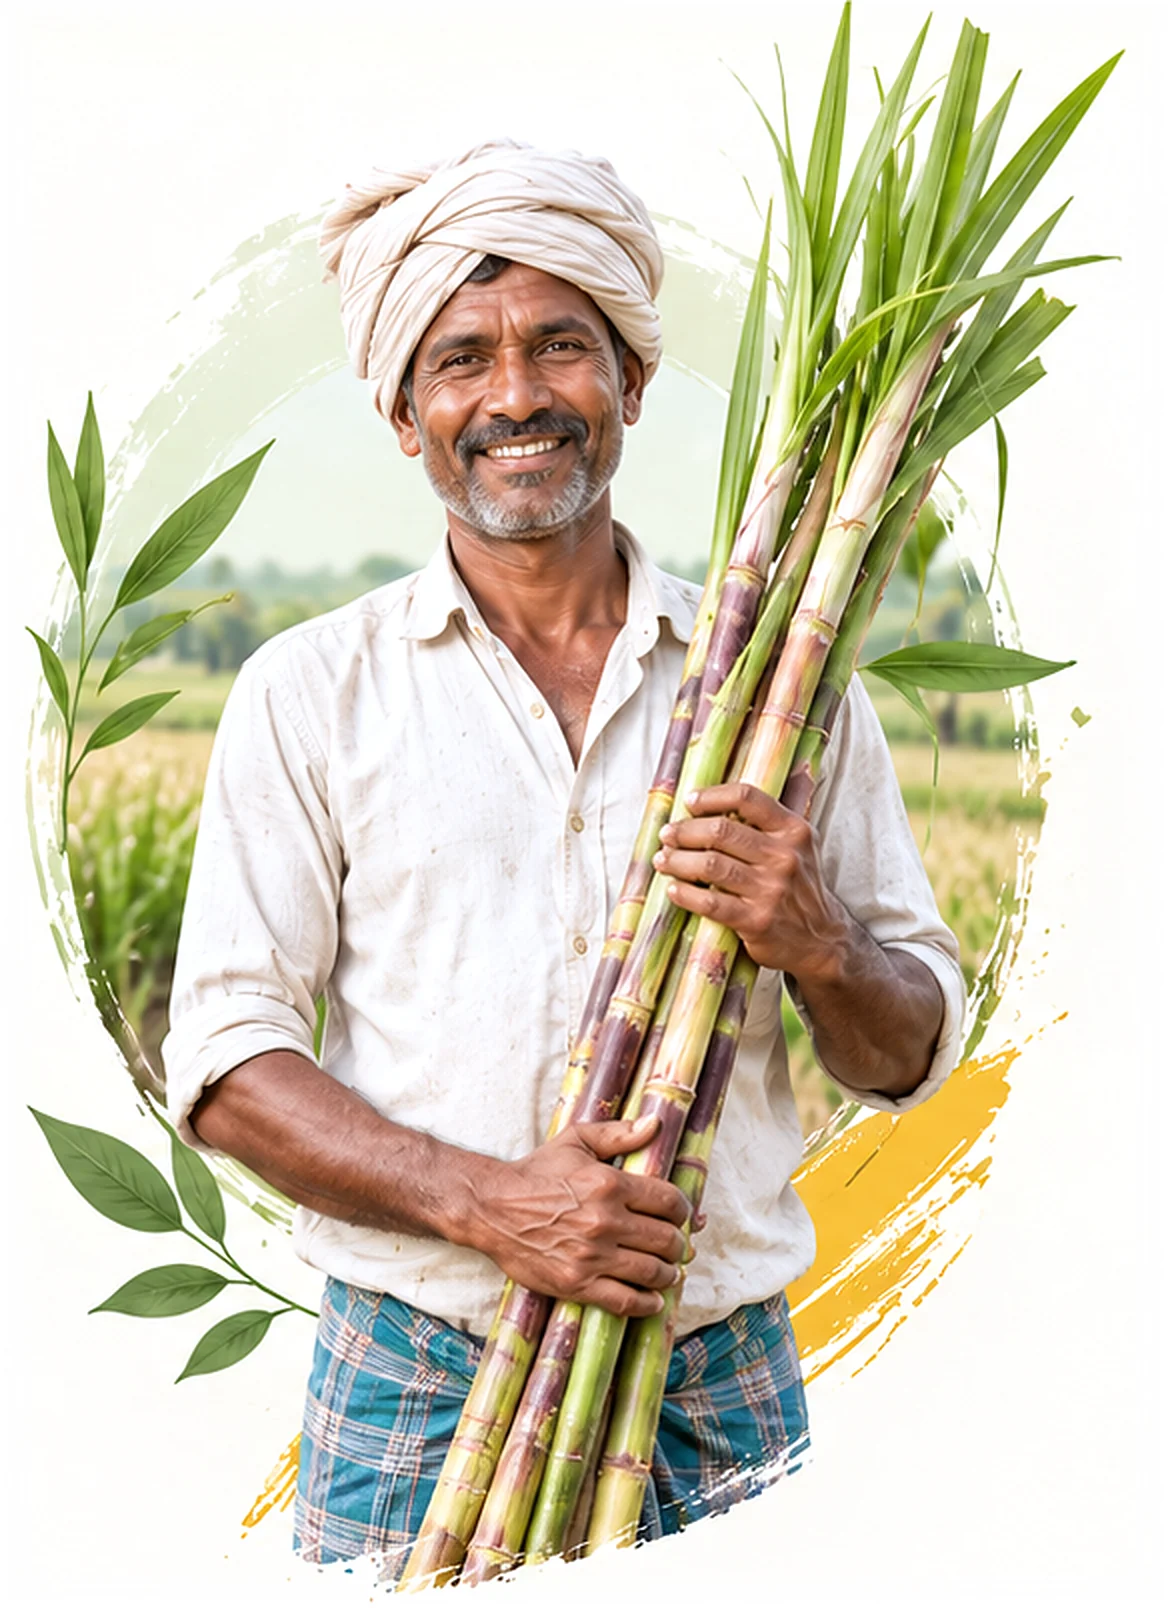
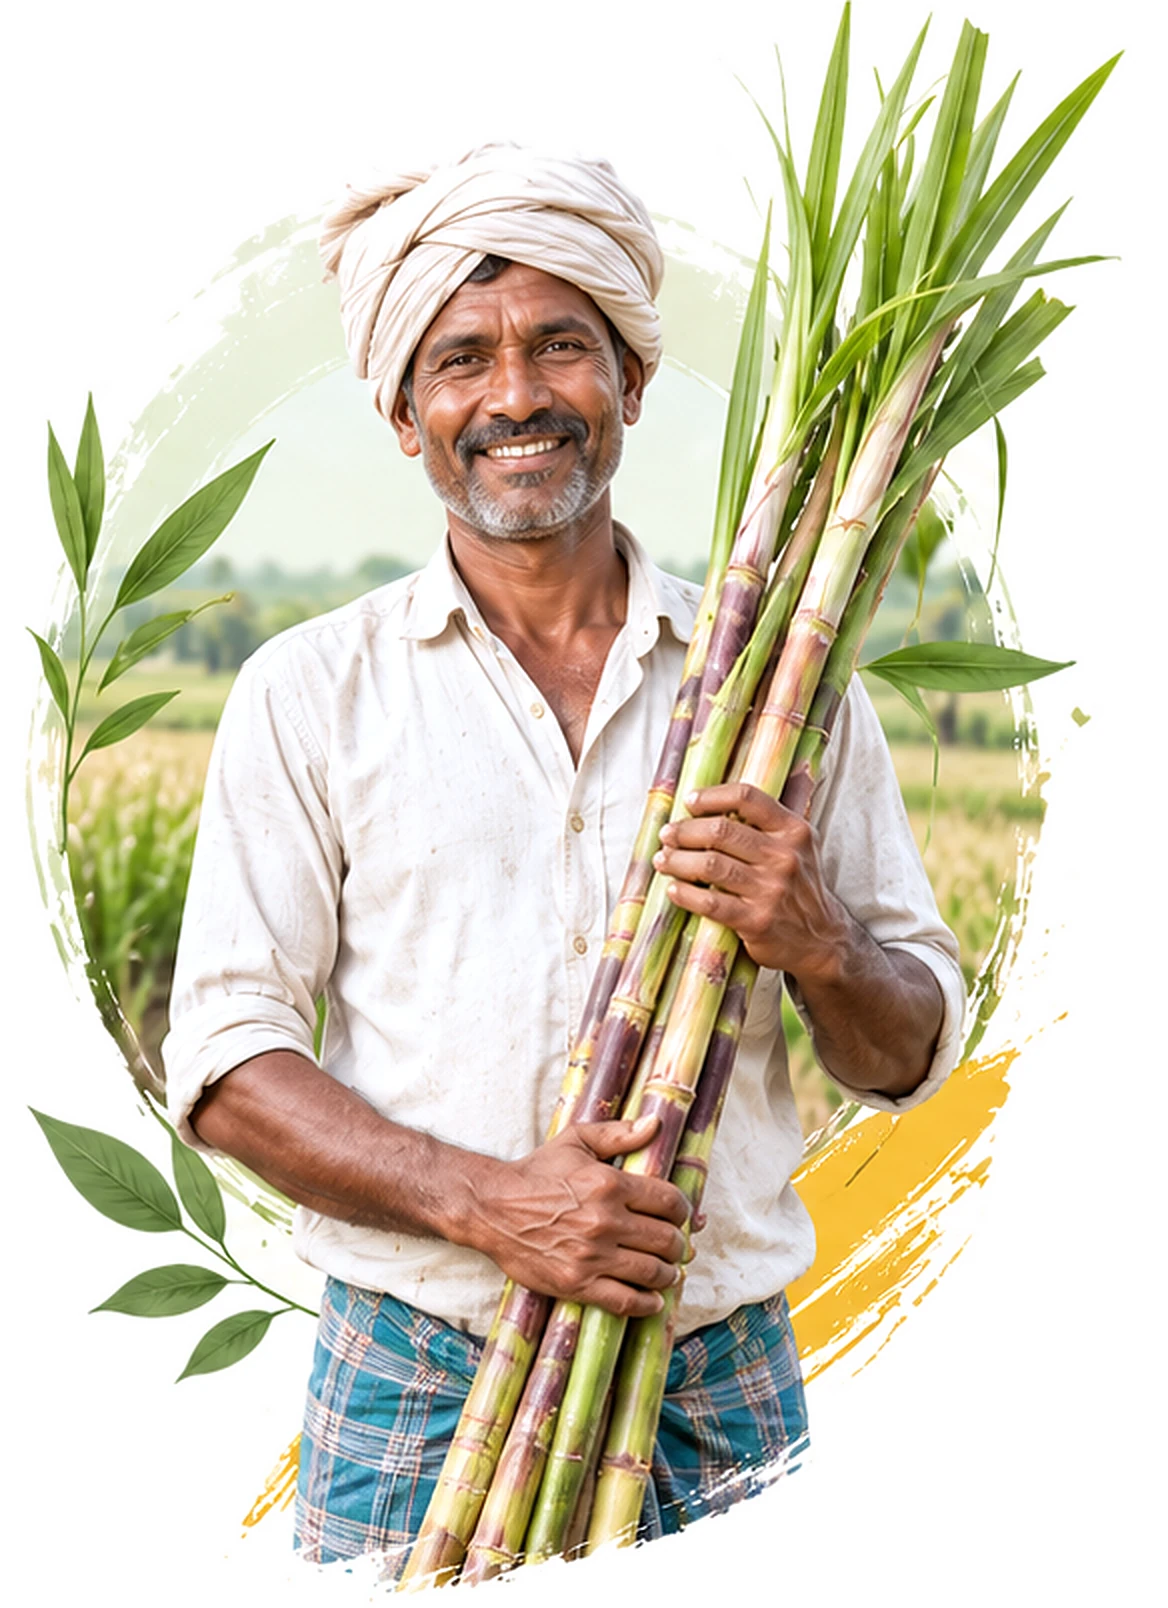
Home: Why VKC made compact, headings in the site's section-head style
The eyebrow and heading now use the same type as the home page's other
section heads ("From the Blog"): the gold uppercase eyebrow and the theme's
h2 size, weight and text colour, on one line. The story heading on the right
follows the same tokens at a smaller size.

The section is about 600px tall on desktop, down from about 960: tighter
padding, smaller pills and icons, a narrower centre column and a smaller
1988. The farmer image's background is flood-filled to pure white from the
edges in (the shirt and turban are untouched), which removes the faint box
that showed around it.

diff --git a/components/home/WhyChooseView.tsx b/components/home/WhyChooseView.tsx
@@ -63,7 +63,7 @@ function Sprig({ className = "", style }: { className?: string; style?: React.CS
 /* Tall cane leaves in line art, tucked into the section's bottom-right corner. */
 function CornerBotanical() {
   return (
-    <svg viewBox="0 0 260 360" className="pointer-events-none absolute bottom-0 right-0 hidden h-[340px] w-auto lg:block" fill="none" stroke={C.goldLite} strokeWidth={1.3} strokeLinecap="round" opacity={0.7} aria-hidden>
+    <svg viewBox="0 0 260 360" className="pointer-events-none absolute bottom-0 right-0 hidden h-[260px] w-auto lg:block" fill="none" stroke={C.goldLite} strokeWidth={1.3} strokeLinecap="round" opacity={0.7} aria-hidden>
       <path d="M250 360 C 236 270, 214 180, 150 60 C 196 150, 232 250, 250 360 Z" />
       <path d="M232 360 C 214 290, 176 220, 96 150 C 160 210, 206 280, 232 360 Z" />
       <path d="M214 360 C 190 310, 140 274, 40 250 C 124 276, 180 312, 214 360 Z" />
@@ -91,16 +91,17 @@ export function WhyChooseView({ image = null, mobileImage = null, imageAlt = "" 
     <section aria-labelledby="why-heading" className="relative overflow-hidden" style={{ background: `linear-gradient(180deg, ${C.paper} 0%, ${C.ivory} 100%)` }}>
       <CornerBotanical />
 
-      <div className="relative max-w-[1560px] mx-auto px-5 sm:px-8 lg:px-10 xl:px-14 py-14 sm:py-16 lg:py-20">
-        <div className="grid items-center gap-x-8 gap-y-8 lg:grid-cols-[minmax(0,1.3fr)_minmax(0,1fr)_minmax(0,0.86fr)] lg:grid-rows-[auto_auto] xl:gap-x-12">
+      <div className="relative max-w-[1400px] mx-auto px-4 sm:px-6 lg:px-8 py-12 lg:py-14">
+        <div className="grid items-center gap-x-8 gap-y-6 lg:grid-cols-[minmax(0,1.35fr)_minmax(0,0.82fr)_minmax(0,0.9fr)] lg:grid-rows-[auto_auto] xl:gap-x-10">
           {/* heading */}
           <div className="lg:col-start-1 lg:row-start-1 lg:self-end">
-            <motion.div {...rise()} className="flex items-center gap-4 font-body font-medium uppercase" style={{ fontSize: 14, letterSpacing: "0.26em", color: C.gold }}>
-              <span className="h-px w-9" style={{ background: C.gold }} /> Why VKC <span className="h-px w-9" style={{ background: `linear-gradient(90deg, ${C.gold}, transparent)` }} />
-            </motion.div>
-            <motion.h2 {...rise(0.08)} id="why-heading" className="mt-3" style={{ fontFamily: "var(--font-heading)", fontSize: "clamp(2.7rem,5.1vw,4.6rem)", lineHeight: 0.98, letterSpacing: "-0.02em", color: C.greenDeep, fontWeight: 700 }}>
-              <span className="block">Why choose</span>
-              <span className="block pl-[0.18em] pb-[0.08em]" style={{ fontStyle: "italic", fontWeight: 600, backgroundImage: "linear-gradient(180deg, #D9A63A 0%, #B9872A 55%, #9A6C16 100%)", WebkitBackgroundClip: "text", backgroundClip: "text", color: "transparent" }}>vkcgoldikshu</span>
+            {/* Same type as the home page's other section heads ("From the Blog"):
+                the gold eyebrow and the theme's h2 size, weight and text colour. */}
+            <motion.span {...rise()} className="block text-xs font-semibold tracking-[0.18em] uppercase" style={{ fontFamily: "var(--font-body)", color: "var(--color-gold)" }}>
+              Why VKC
+            </motion.span>
+            <motion.h2 {...rise(0.08)} id="why-heading" className="mt-2" style={{ fontFamily: "var(--font-heading)", fontSize: "var(--text-h2)", fontWeight: "var(--weight-heading)", color: "var(--color-text-primary)" }}>
+              Why choose <span style={{ fontStyle: "italic" }}>vkcgoldikshu</span>
             </motion.h2>
           </div>
 
@@ -109,7 +110,7 @@ export function WhyChooseView({ image = null, mobileImage = null, imageAlt = "" 
               on white, multiplied into the page so no rectangle shows. An image
               uploaded in Admin → Banners ("home_why_image") replaces it and is set
               over the drawn circle, stroke and sprigs instead. */}
-          <motion.div {...rise(0.15)} className="relative mx-auto w-full max-w-[400px] lg:max-w-none lg:col-start-2 lg:row-span-2 lg:row-start-1" style={{ aspectRatio: image ? "10 / 13" : "584 / 804" }}>
+          <motion.div {...rise(0.15)} className="relative mx-auto w-full max-w-[300px] sm:max-w-[340px] lg:max-w-none lg:col-start-2 lg:row-span-2 lg:row-start-1" style={{ aspectRatio: image ? "10 / 13" : "584 / 804" }}>
             {image ? (
               <>
                 <svg viewBox="0 0 500 650" className="absolute inset-0 h-full w-full" aria-hidden>
@@ -150,7 +151,7 @@ export function WhyChooseView({ image = null, mobileImage = null, imageAlt = "" 
                 alt="A Mandya sugarcane farmer holding freshly cut cane"
                 fill
                 sizes="(max-width: 1023px) 400px, 34vw"
-                quality={82}
+                quality={92}
                 className="object-contain"
                 style={{ mixBlendMode: "multiply" }}
               />
@@ -159,7 +160,7 @@ export function WhyChooseView({ image = null, mobileImage = null, imageAlt = "" 
 
           {/* benefits */}
           <div className="lg:col-start-1 lg:row-start-2 lg:self-start">
-            <ul className="m-0 list-none space-y-4 p-0">
+            <ul className="m-0 list-none space-y-2.5 p-0">
               {REASONS.map((r, i) => {
                 const on = i === active;
                 return (
@@ -168,7 +169,7 @@ export function WhyChooseView({ image = null, mobileImage = null, imageAlt = "" 
                       href="/about"
                       onMouseEnter={() => setActive(i)}
                       onFocus={() => setActive(i)}
-                      className="group flex items-center gap-3 sm:gap-4 rounded-[999px] py-3 pl-5 pr-4 sm:py-3.5 sm:pl-7 sm:pr-5 outline-none transition-[transform,box-shadow] duration-500 ease-out hover:-translate-y-1 focus-visible:-translate-y-1"
+                      className="group flex items-center gap-3 sm:gap-4 rounded-[999px] py-2 pl-4 pr-3 sm:py-2.5 sm:pl-6 sm:pr-4 outline-none transition-[transform,box-shadow] duration-500 ease-out hover:-translate-y-1 focus-visible:-translate-y-1"
                       style={{
                         background: on ? `linear-gradient(100deg, ${C.green} 0%, ${C.greenDeep} 100%)` : "rgba(255,253,248,0.9)",
                         border: `1px solid ${on ? C.green : C.line}`,
@@ -176,13 +177,13 @@ export function WhyChooseView({ image = null, mobileImage = null, imageAlt = "" 
                       }}
                     >
                       <span className="font-body tabular-nums shrink-0" style={{ fontSize: 15, width: 24, color: on ? C.goldLite : C.gold }}>0{i + 1}</span>
-                      <span className="grid h-12 w-12 sm:h-14 sm:w-14 shrink-0 place-items-center rounded-full transition-transform duration-500 ease-out group-hover:scale-110 group-hover:-rotate-6" style={{ background: on ? "rgba(255,255,255,0.13)" : "#EFEBDD", color: on ? "#F4F7EE" : C.green }}>
-                        <r.icon className="h-6 w-6" strokeWidth={1.6} />
+                      <span className="grid h-10 w-10 sm:h-11 sm:w-11 shrink-0 place-items-center rounded-full transition-transform duration-500 ease-out group-hover:scale-110 group-hover:-rotate-6" style={{ background: on ? "rgba(255,255,255,0.13)" : "#EFEBDD", color: on ? "#F4F7EE" : C.green }}>
+                        <r.icon className="h-5 w-5" strokeWidth={1.6} />
                       </span>
-                      <span aria-hidden className="h-11 w-px shrink-0" style={{ background: on ? "rgba(255,255,255,0.28)" : C.line }} />
+                      <span aria-hidden className="h-9 w-px shrink-0" style={{ background: on ? "rgba(255,255,255,0.28)" : C.line }} />
                       <span className="min-w-0 flex-1 pl-1">
-                        <span className="block font-body" style={{ fontSize: "clamp(0.98rem,1.18vw,1.12rem)", lineHeight: 1.22, fontWeight: 600, color: on ? "#FFFFFF" : C.ink }}>{r.t}</span>
-                        <span className="mt-1 block font-body" style={{ fontSize: 12.5, lineHeight: 1.5, color: on ? "rgba(255,255,255,0.82)" : C.ink2 }}>{r.d}</span>
+                        <span className="block font-body" style={{ fontSize: "clamp(0.92rem,1.05vw,1rem)", lineHeight: 1.22, fontWeight: 600, color: on ? "#FFFFFF" : C.ink }}>{r.t}</span>
+                        <span className="mt-0.5 block font-body" style={{ fontSize: 12, lineHeight: 1.45, color: on ? "rgba(255,255,255,0.82)" : C.ink2 }}>{r.d}</span>
                       </span>
                       <span className="grid h-9 w-9 shrink-0 place-items-center rounded-full transition-transform duration-500 ease-out group-hover:translate-x-1" style={{ border: `1.5px solid ${on ? C.goldLite : C.gold}`, color: on ? "#FFFFFF" : C.gold }}>
                         <ArrowRight className="h-4 w-4" />
@@ -194,7 +195,7 @@ export function WhyChooseView({ image = null, mobileImage = null, imageAlt = "" 
             </ul>
 
             <motion.div {...rise(0.4)}>
-              <Link href="/about" className="group mt-8 inline-flex items-center gap-3 font-body text-[15px]" style={{ color: C.gold }}>
+              <Link href="/about" className="group mt-5 inline-flex items-center gap-3 font-body text-sm" style={{ color: C.gold }}>
                 <span className="underline underline-offset-4 decoration-1">Read our story</span>
                 <span className="grid h-9 w-9 place-items-center rounded-full transition-transform duration-300 group-hover:translate-x-1" style={{ border: `1.5px solid ${C.gold}` }}>
                   <ArrowRight className="h-4 w-4" />
@@ -206,16 +207,16 @@ export function WhyChooseView({ image = null, mobileImage = null, imageAlt = "" 
           {/* right: from the cane fields to your family, and the year it began */}
           <motion.div {...rise(0.25)} className="relative lg:col-start-3 lg:row-span-2 lg:row-start-1">
             <LeafRule />
-            <h3 className="mt-6" style={{ fontFamily: "var(--font-heading)", fontSize: "clamp(1.9rem,2.9vw,2.7rem)", lineHeight: 1.12, letterSpacing: "-0.01em", color: C.greenDeep, fontWeight: 700 }}>
+            <h3 className="mt-4" style={{ fontFamily: "var(--font-heading)", fontSize: "clamp(1.5rem,2.1vw,1.95rem)", lineHeight: 1.15, fontWeight: "var(--weight-heading)", color: "var(--color-text-primary)" }}>
               From the Cane Fields to Your Family.
             </h3>
-            <p className="font-body mt-5" style={{ fontSize: 15.5, lineHeight: 1.75, color: C.ink2, textAlign: "left", hyphens: "none", maxWidth: 380 }}>
+            <p className="font-body mt-3" style={{ fontSize: 14, lineHeight: 1.7, color: "var(--color-text-muted)", textAlign: "left", hyphens: "none", maxWidth: 380 }}>
               At VKC Gold Ikshu, we preserve the goodness of naturally grown sugarcane through careful processing and time-honoured craftsmanship. From our roots in Mandya to your home, every product is created with purity, care and consistency.
             </p>
 
-            <div className="relative mt-10 lg:mt-14" style={{ maxWidth: 340 }}>
-              <div aria-hidden className="select-none text-center" style={{ fontFamily: "var(--font-heading)", fontWeight: 700, fontSize: "clamp(6rem,9.6vw,9.2rem)", lineHeight: 0.9, letterSpacing: "-0.03em", color: C.goldLite, opacity: 0.4 }}>1988</div>
-              <div className="absolute inset-x-0 top-1/2 flex -translate-y-1/2 items-center justify-center gap-4 font-body uppercase" style={{ fontSize: 17, letterSpacing: "0.3em", color: C.greenDeep }}>
+            <div className="relative mt-6 lg:mt-8" style={{ maxWidth: 300 }}>
+              <div aria-hidden className="select-none text-center" style={{ fontFamily: "var(--font-heading)", fontWeight: 700, fontSize: "clamp(4.4rem,6.6vw,6.2rem)", lineHeight: 0.9, letterSpacing: "-0.03em", color: C.goldLite, opacity: 0.4 }}>1988</div>
+              <div className="absolute inset-x-0 top-1/2 flex -translate-y-1/2 items-center justify-center gap-3 font-body uppercase" style={{ fontSize: 13, letterSpacing: "0.28em", color: "var(--color-text-primary)" }}>
                 <span className="h-px w-5" style={{ background: C.gold }} /> Trusted since <span className="h-px w-5" style={{ background: C.gold }} />
               </div>
               <div className="mx-auto mt-2 w-[58%]"><LeafRule width={200} /></div>
